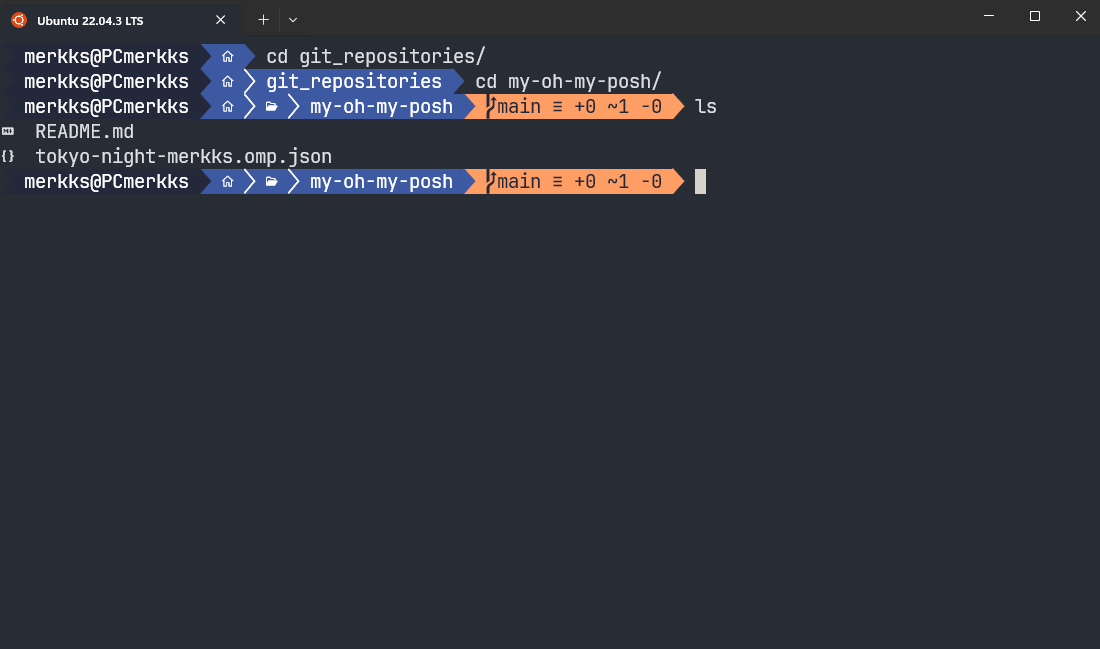
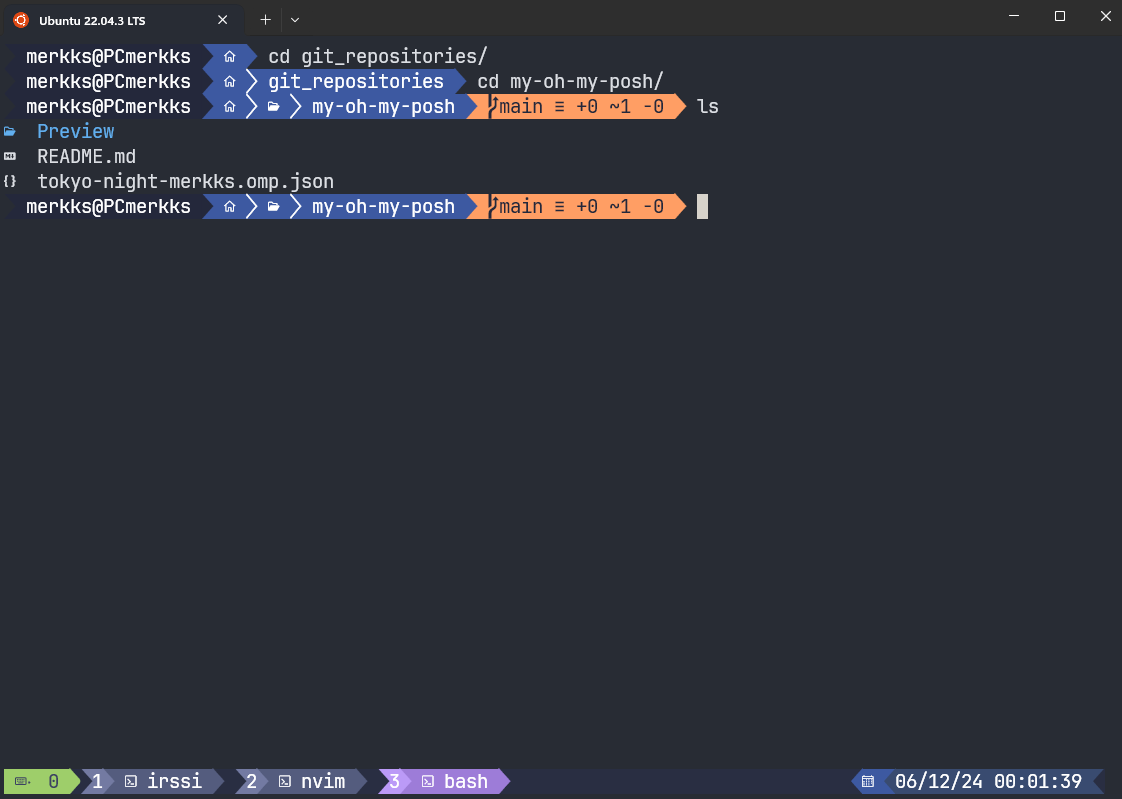
modified:   Preview/tokyo-night-merkks.png 	modified:   README.md

diff --git a/README.md b/README.md
@@ -25,11 +25,9 @@ The theme uses the Tokyo Night color palette, which provides a dark, soothing, a
 
 ## Preview
 
-![Theme Preview1](./Preview/tokyo-night-merkks.png)
-
 Looks nice with [tmux-tokyo-night](https://github.com/fabioluciano/tmux-tokyo-night)
 
-![Theme Preview2](./Preview/tokyo-night-merkks-tmux.png)
+![Theme Preview1](./Preview/tokyo-night-merkks.png)
 
 ## Installation
 
